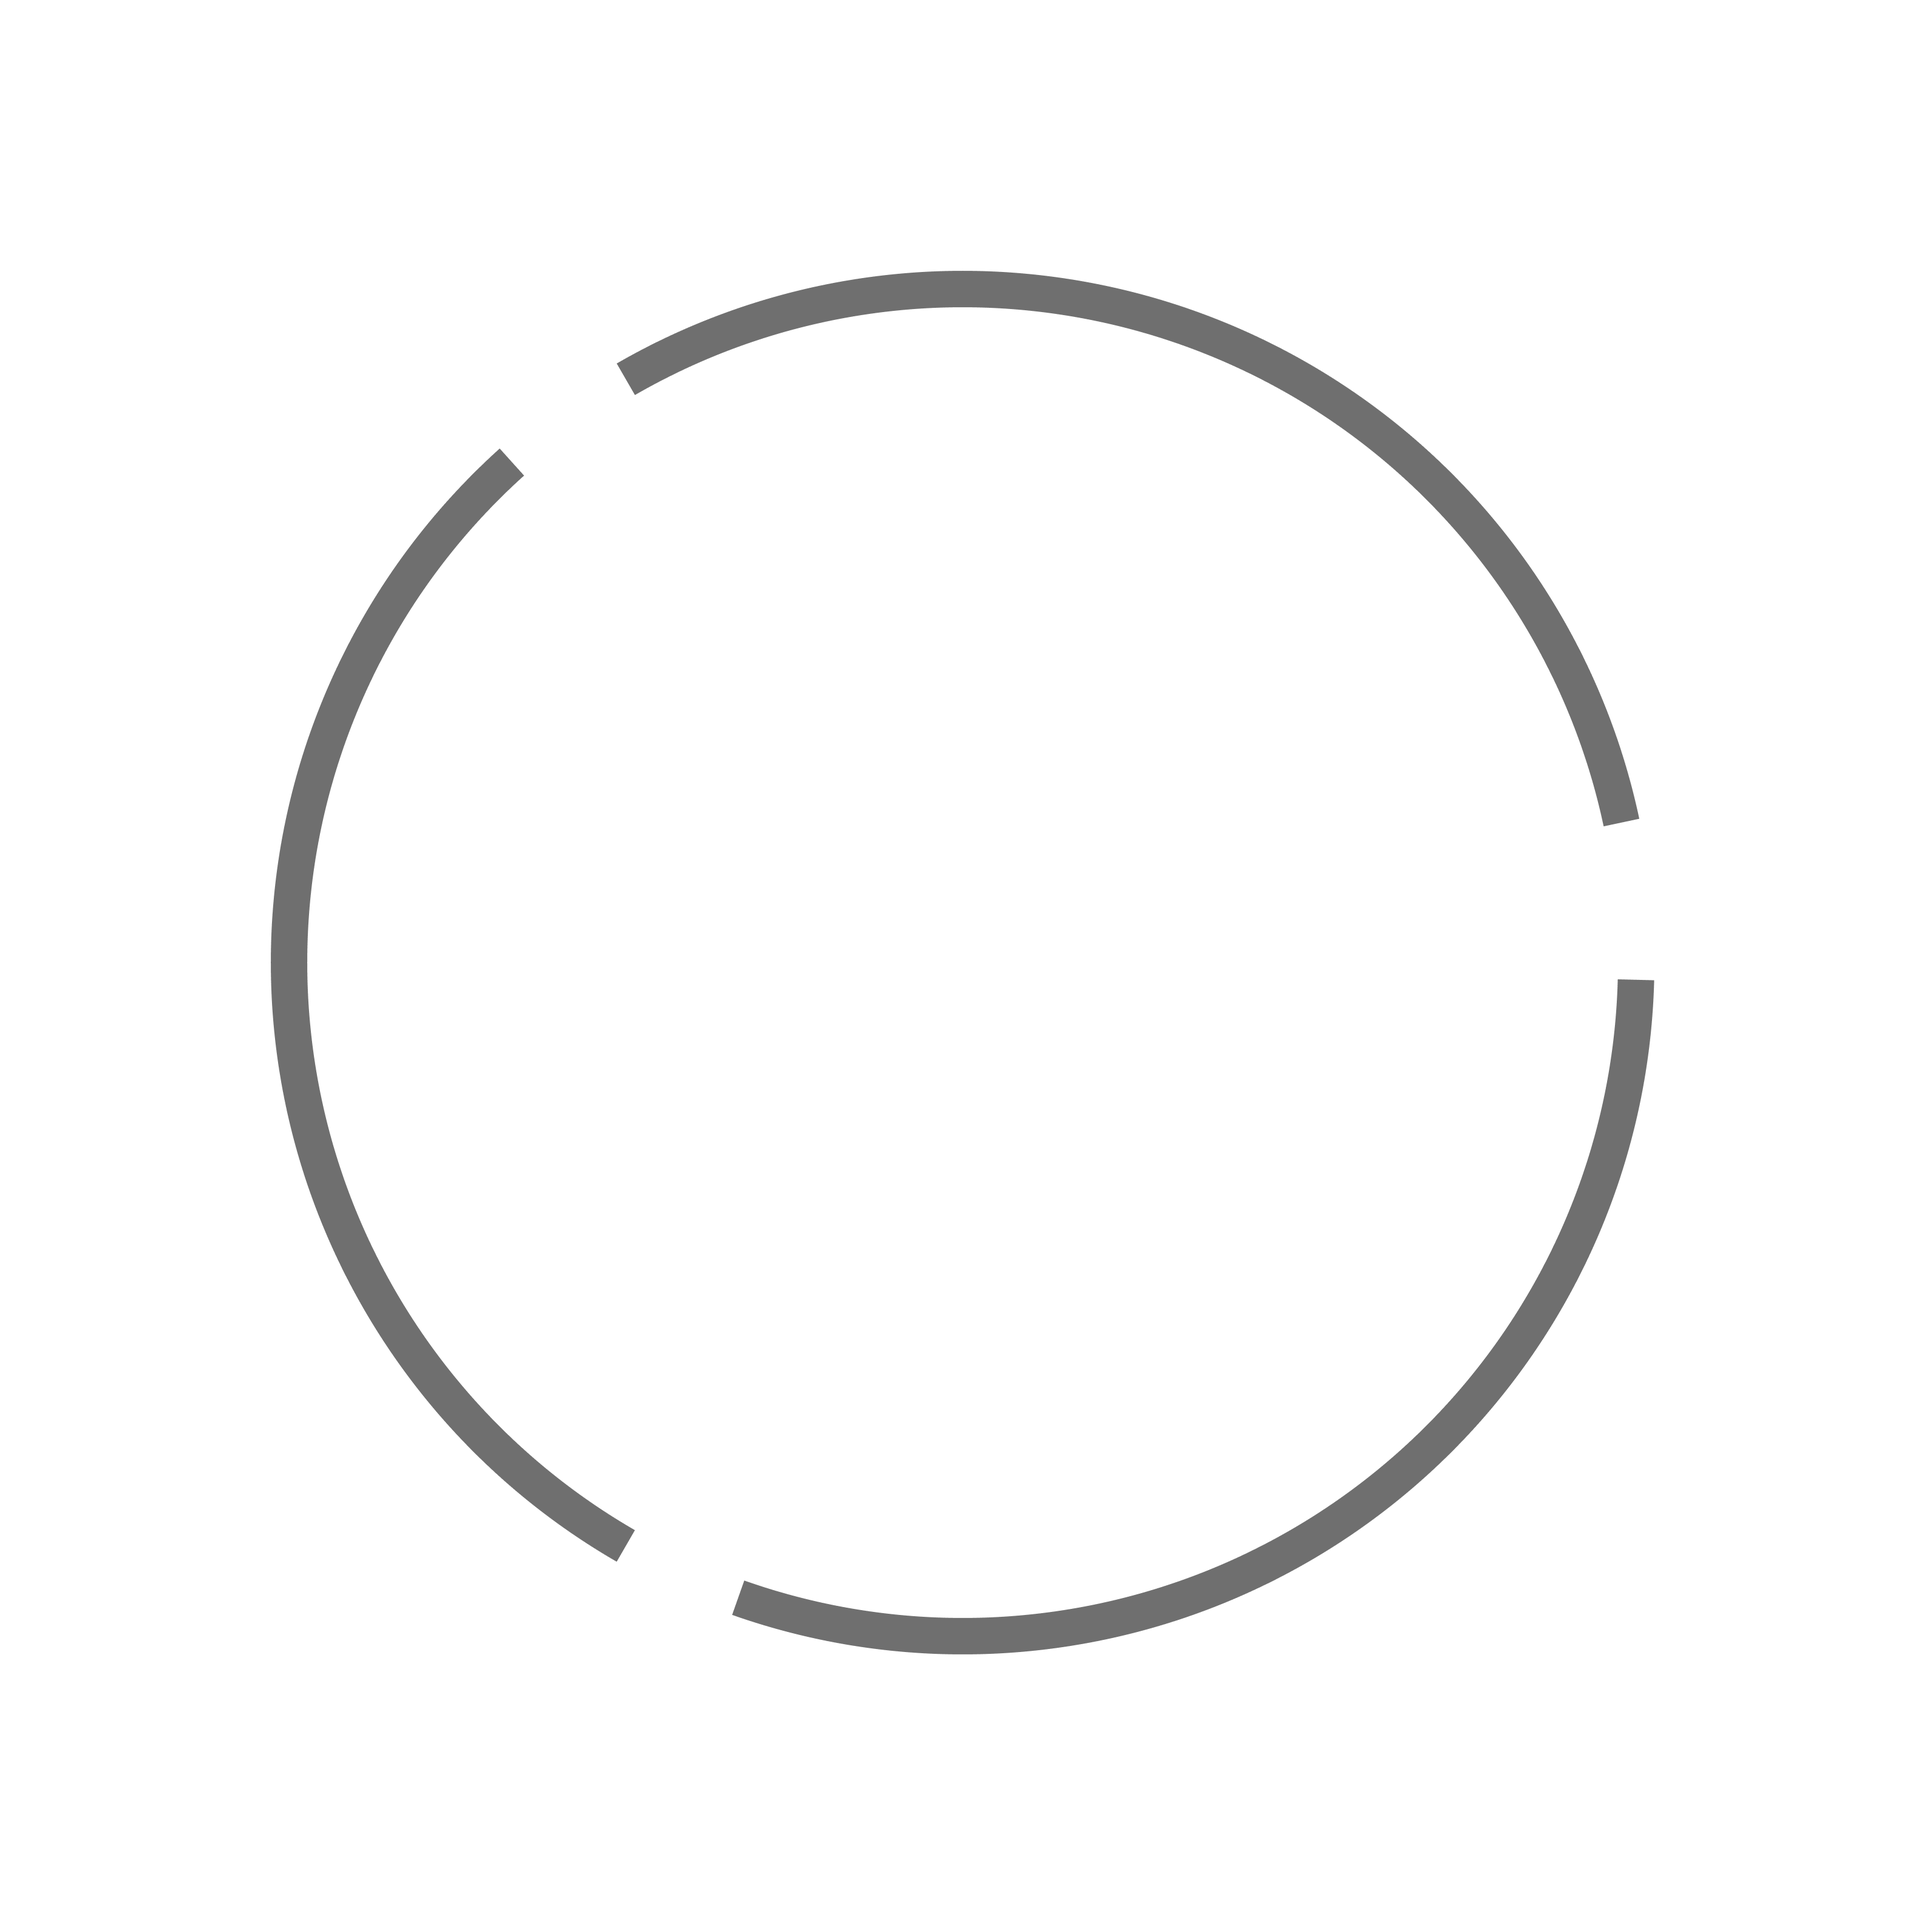
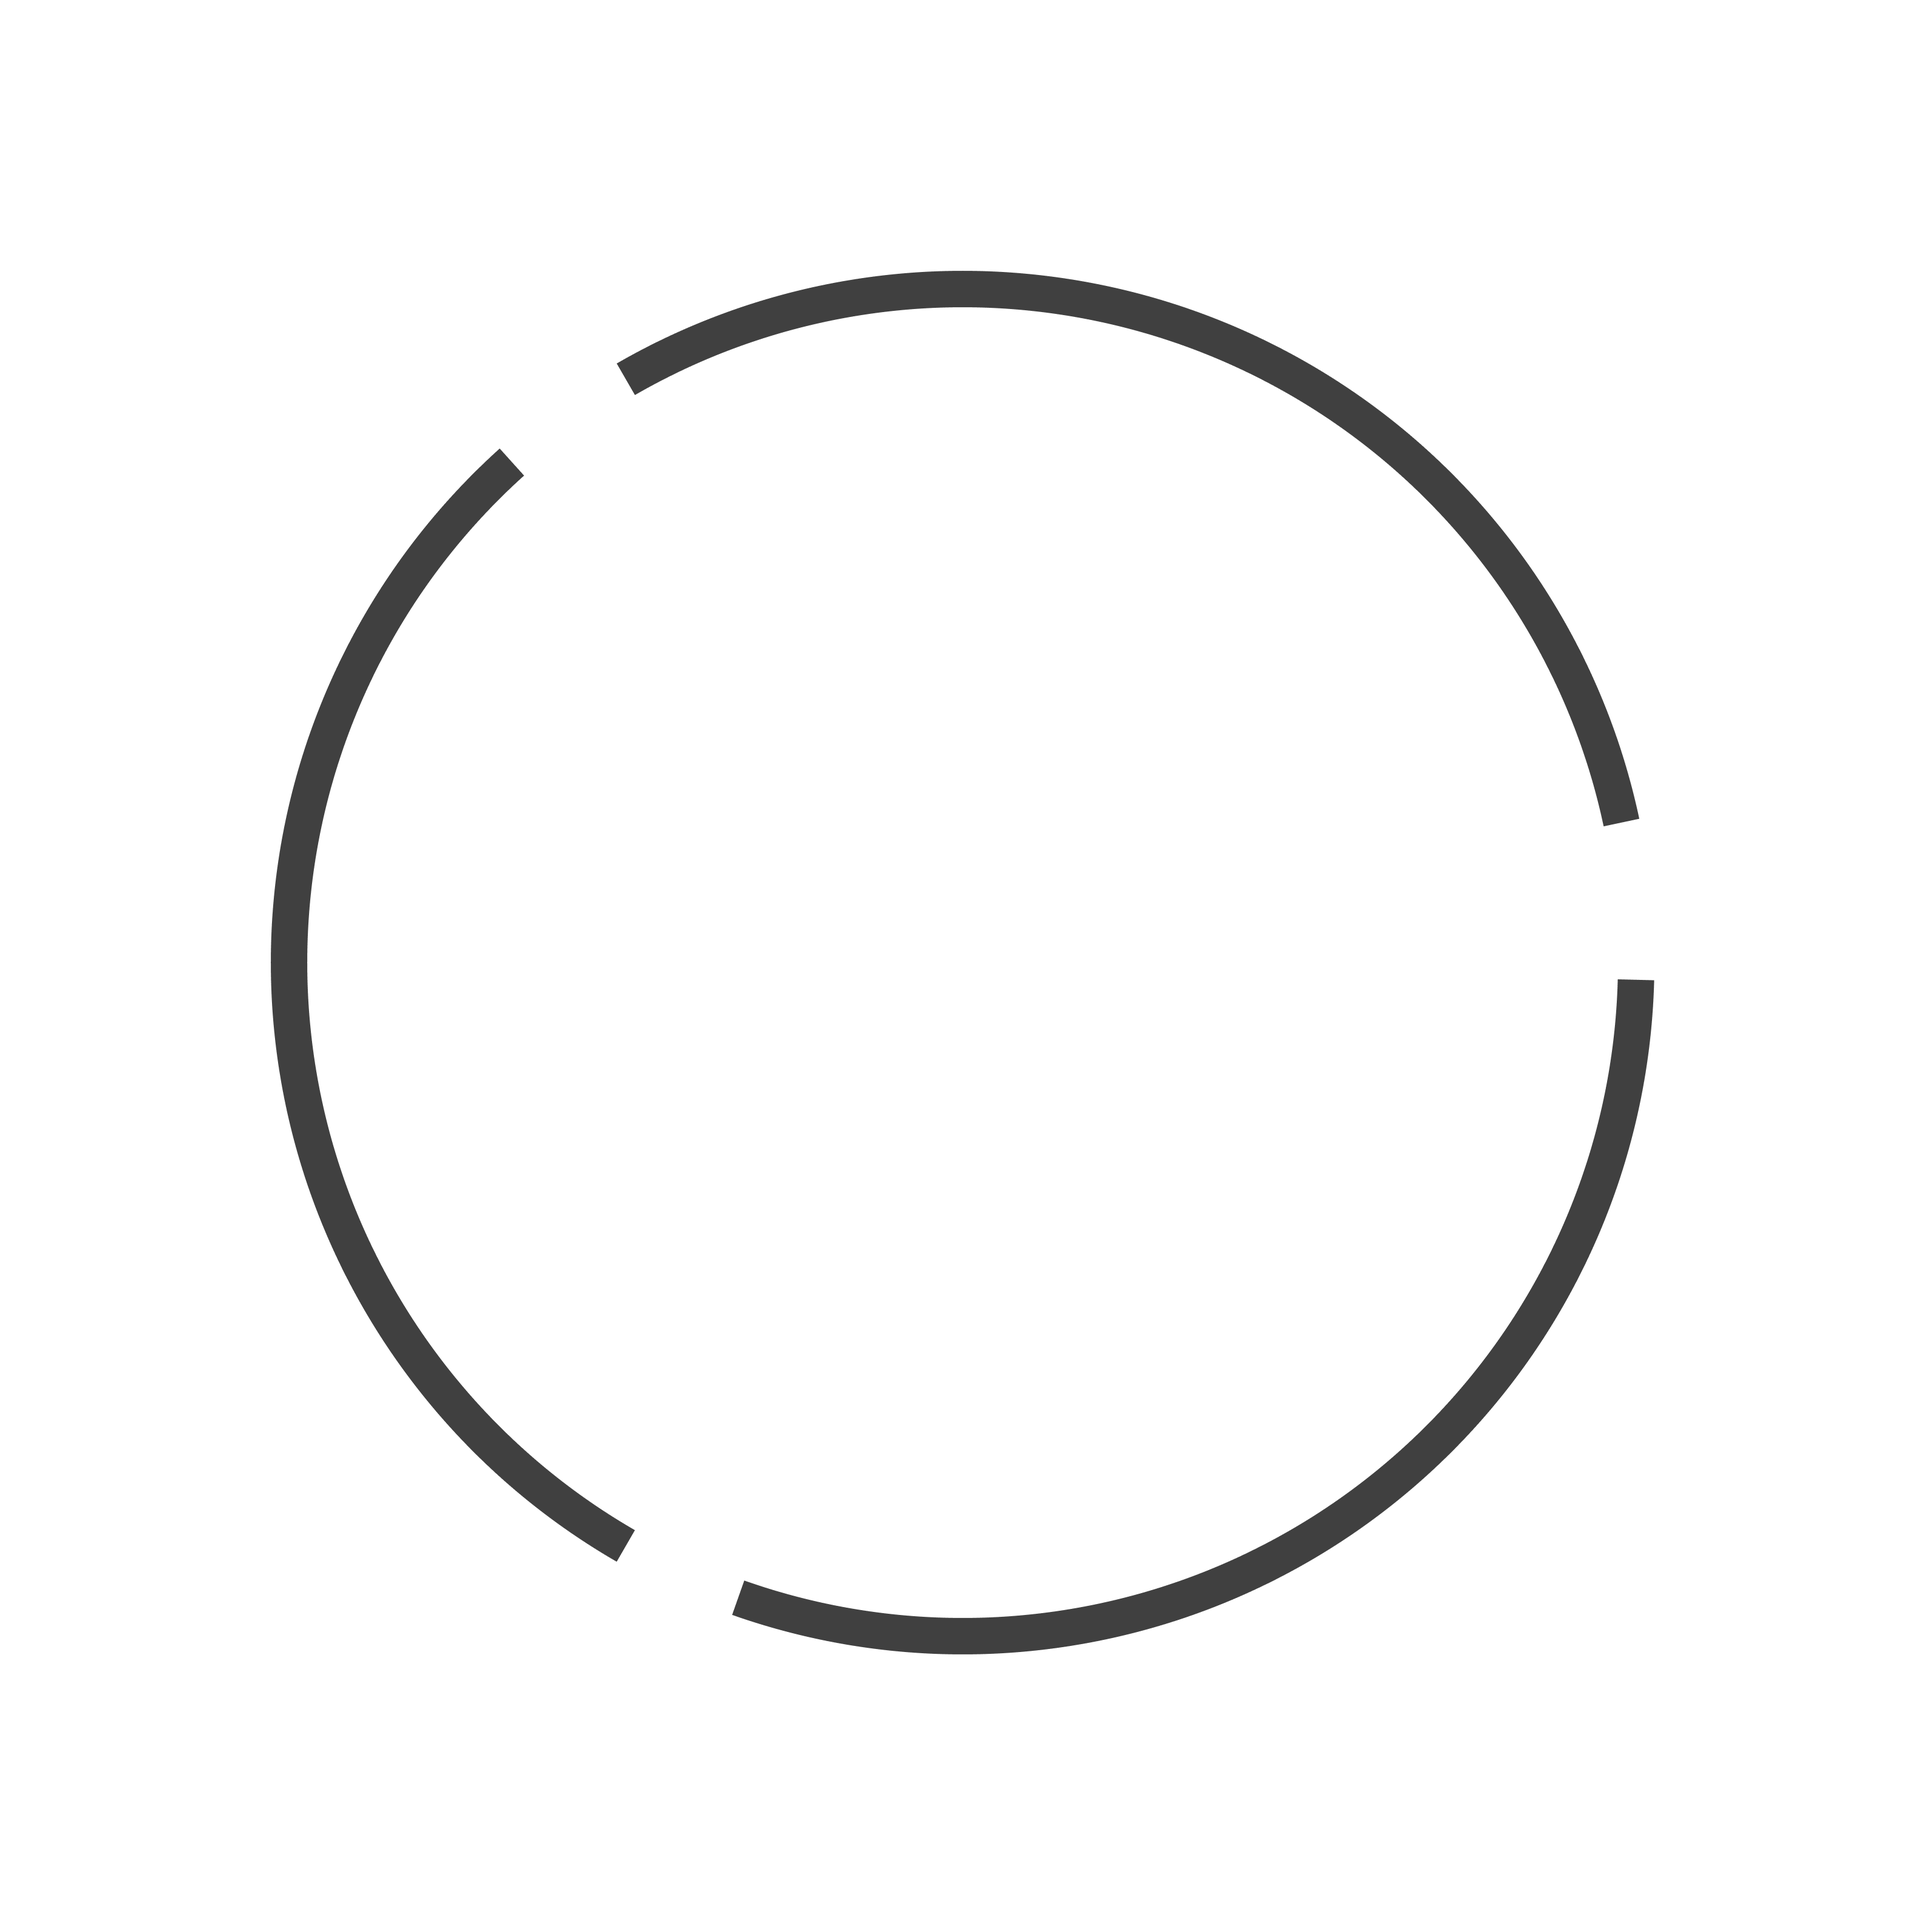
yup!

Changed region(s): [[0.3124, 0.125, 0.8747, 0.4374], [0.125, 0.2187, 0.3436, 0.8122], [0.3749, 0.4998, 0.8747, 0.8747]]

diff --git a/index.css b/index.css
@@ -71,6 +71,7 @@ body {
     margin-top: 0px;
     margin-bottom: 0px;
     font-size: 30px;
+    color: #404040;
 }
 
 .description {
@@ -111,7 +112,7 @@ body {
     }
 
     .description {
-        margin-top: 40px;
+        margin-top: 20px;
         font-size: 43px;
     }
 
